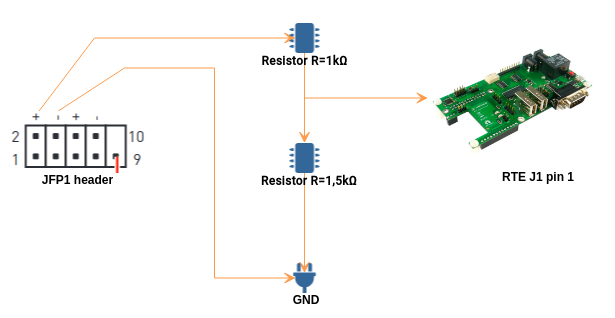
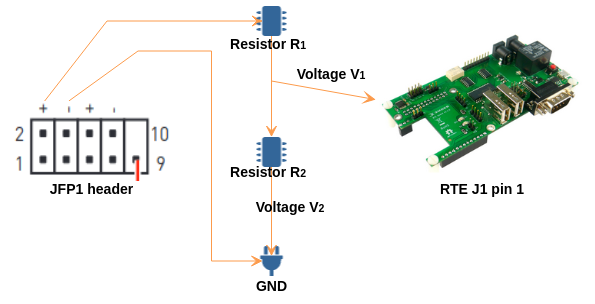
docs/transparent-validation/msi-z690/laboratory-assembly-guide.md: updating image and reading power status sections

diff --git a/docs/transparent-validation/msi-z690/laboratory-assembly-guide.md b/docs/transparent-validation/msi-z690/laboratory-assembly-guide.md
@@ -178,7 +178,8 @@ The following sections describe how to enable all of the following features:
 * serial connection to the platform,
 * controlling power supply,
 * enabling basic power actions with the platform (power off/power on/reset),
-* external flashing with the RTE.
+* external flashing with the RTE,
+* reading power status.
 
 ### Serial connection
 
@@ -244,9 +245,13 @@ should be provided by direct soldering to the one of flash chip pins
 
 ### Reading power status
 
-Connect the RTE J1 header to the platform JFP1 header as shown on picture below:
+Connect the RTE J1 header to the platform JFP1 header as shown in the picture
+below:
 
 ![IMG](images/reading_power_status.png)
+
+The values of `R1`, `R2`, `V1` and `V2` should meet the relationship according
+to the formula `R1/R2 = V2/V1`. `V1` cannot be greater than 3.3V (RTE property).
 
 ### Complete Setup
 
@@ -377,7 +382,7 @@ To read the current power status use the following command:
 cat /sys/class/gpio/gpio12/value
 ```
 
-Output meaning:
+Example output:
 
-`1` - means that the platform is turned on.
-`0` - means that the platform is turned off.
+* `1` means that the platform is turned on.
+* `0` means that the platform is turned off.
